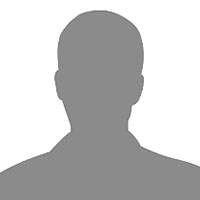
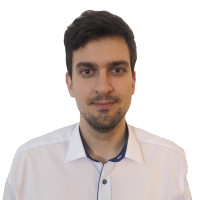
Team page and about

diff --git a/www/css/main.css b/www/css/main.css
@@ -306,3 +306,63 @@ cite
 {
     background-color: #FFE7E7;
 }
+
+.img-rounded
+{
+    border-radius: 6px;    
+}
+
+.team-block
+{
+    text-align: justify;
+}
+
+.team-block .team-head
+{
+    text-align: center;
+}
+
+.team-block h4
+{
+    width: 100%;
+    text-align: center;
+}
+
+.img-team
+{
+    width: 100%;
+    height: auto;
+    max-width: 140px;
+    max-height: 140px;
+}
+
+.space-1em
+{
+    width: 100%;
+    height: 1em;
+    clear: both;
+}
+
+.space-2em
+{
+    width: 100%;
+    height: 2em;
+    clear: both;
+}
+
+.space-3em
+{
+    width: 100%;
+    height: 3em;
+    clear: both;
+}
+
+.team-block
+{
+    padding: 1em;
+}
+
+.team-block span
+{
+    margin-right: 1em;
+}
